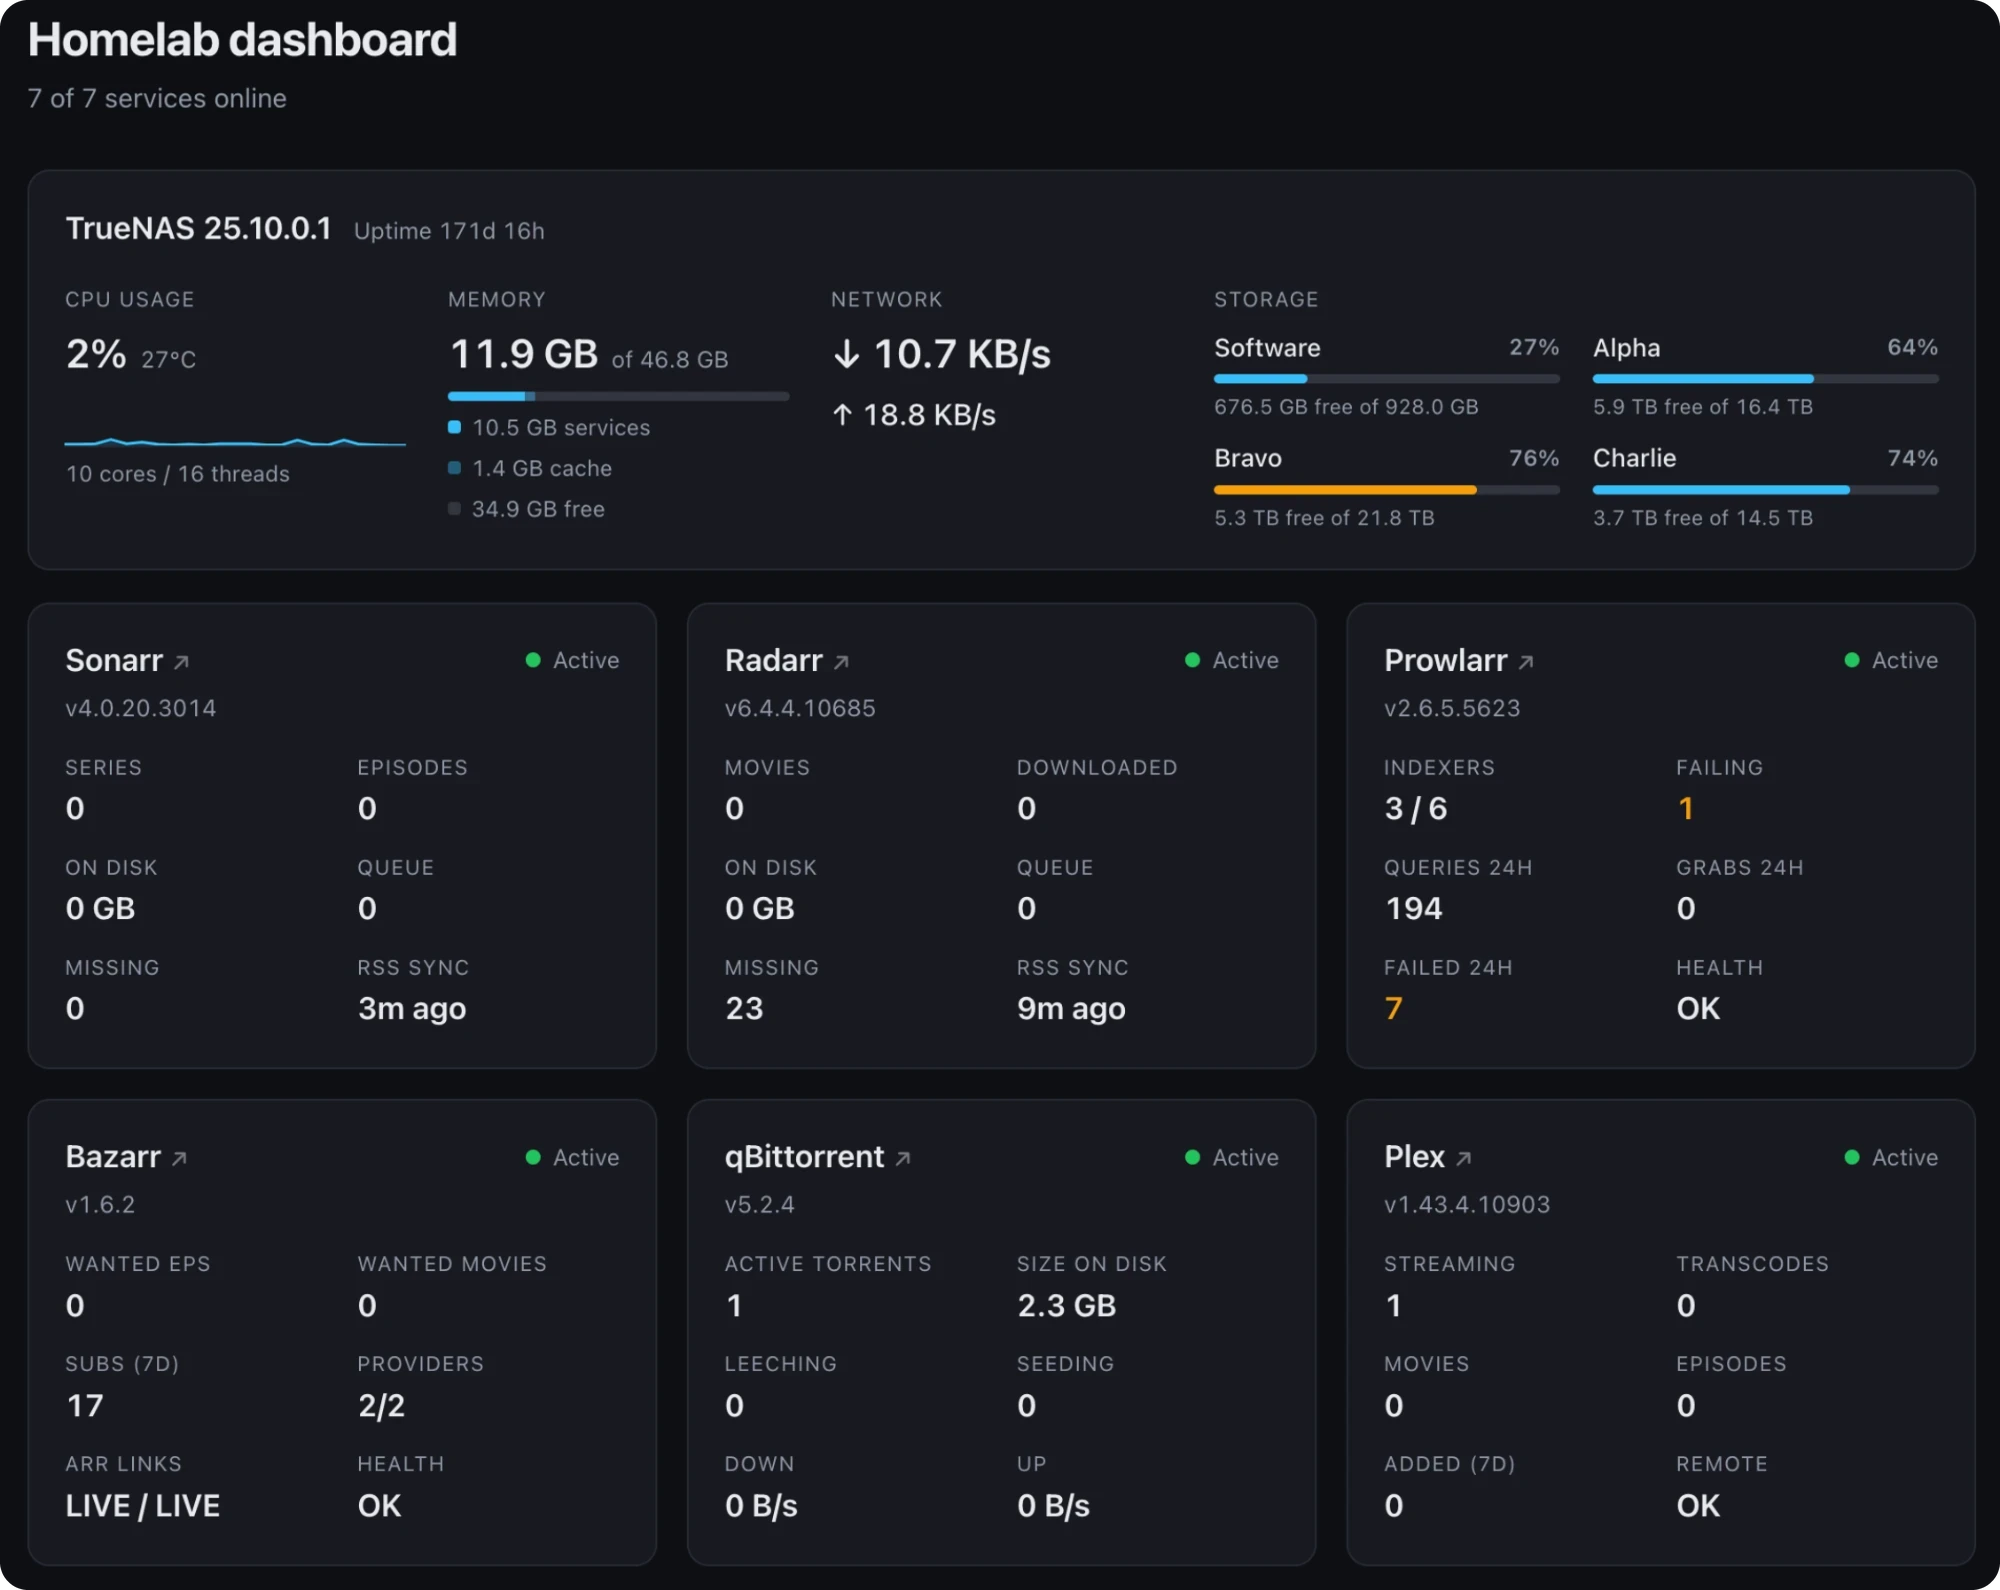
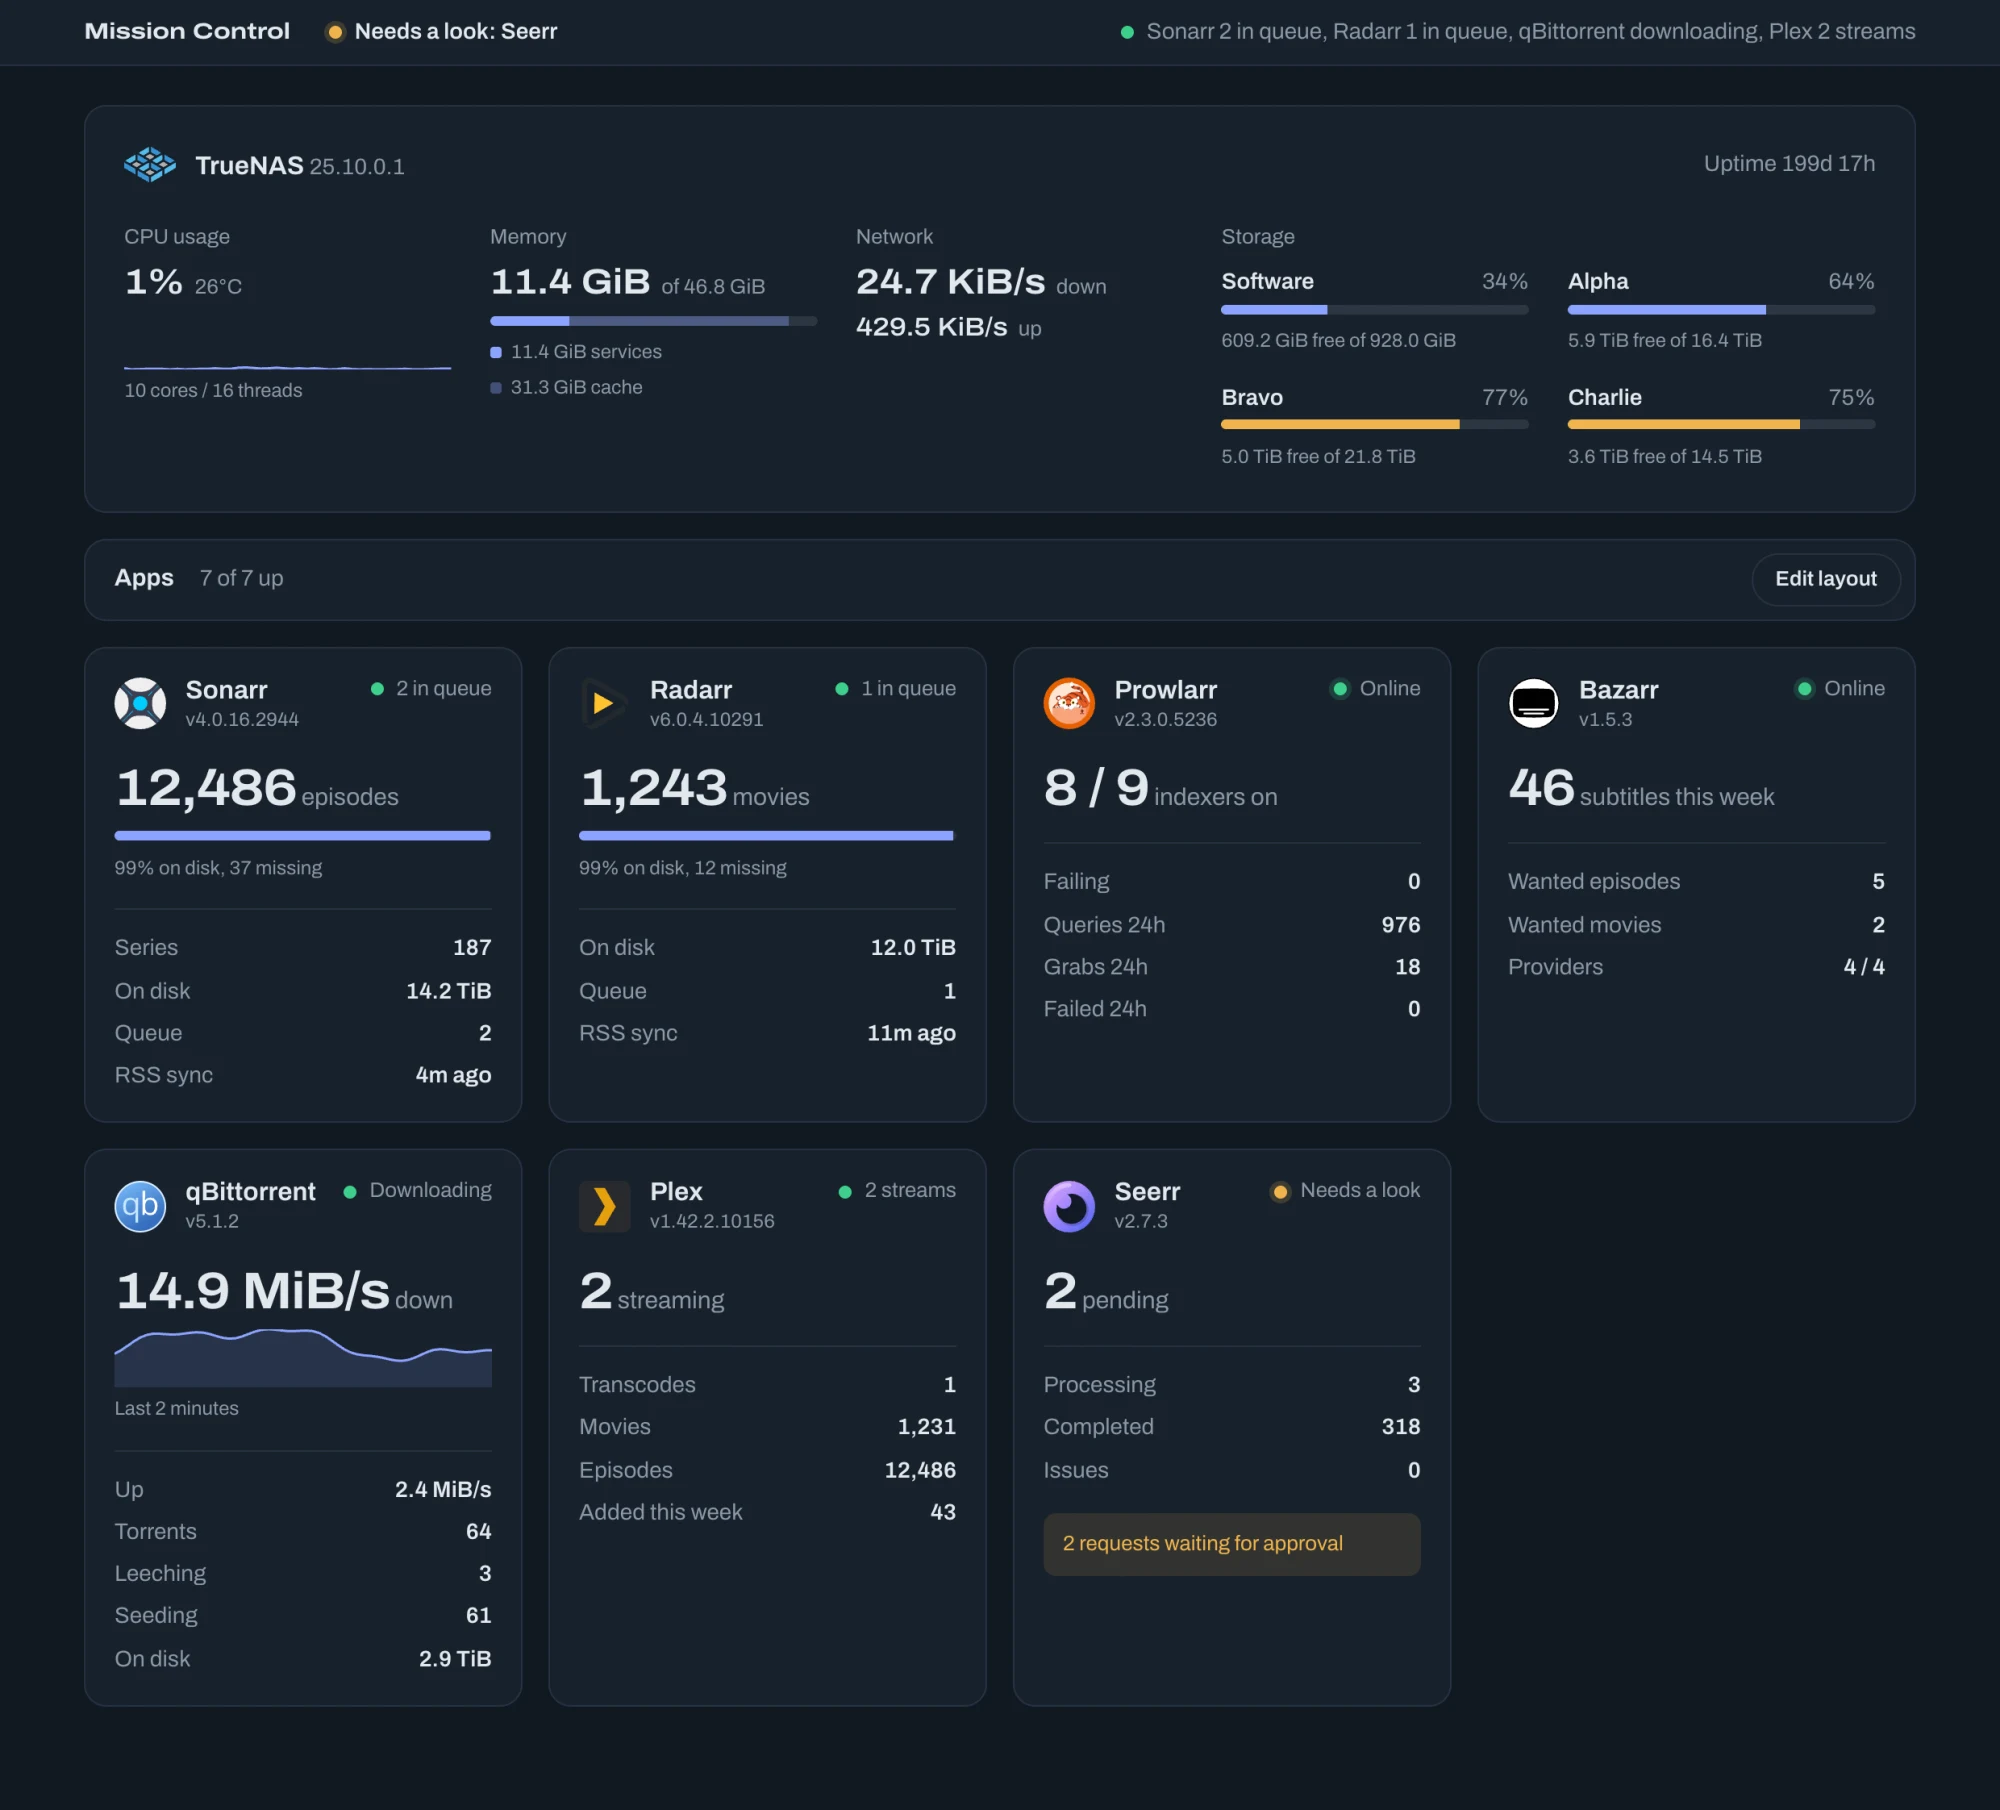
chore: update preview image to latest state

diff --git a/README.md b/README.md
@@ -10,6 +10,9 @@ WIP example below. Layout and panels are still changing.
 
 ![Homelab dashboard](docs/preview.webp)
 
+_The app numbers in this preview are made-up demo data. They are for illustration only and
+don't describe a real library, real downloads or real activity._
+
 ### Stack
 
 - React 19 + TypeScript, built with Vite
